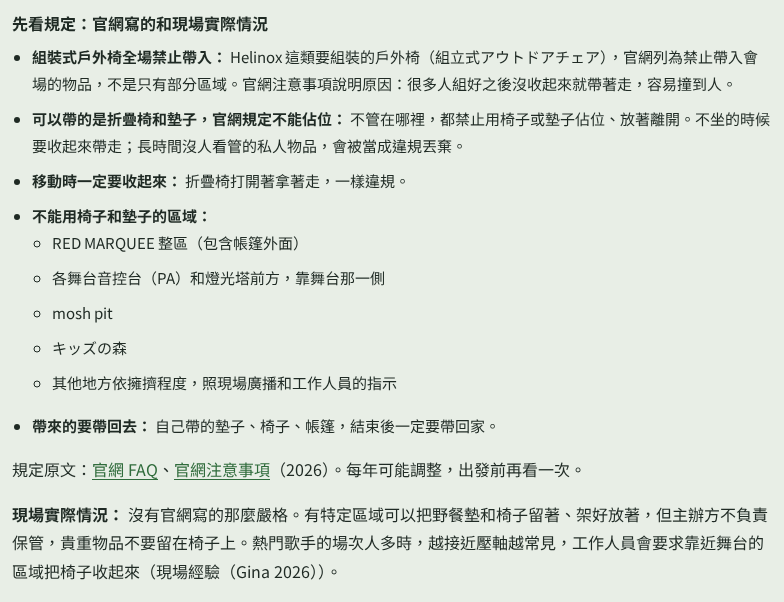
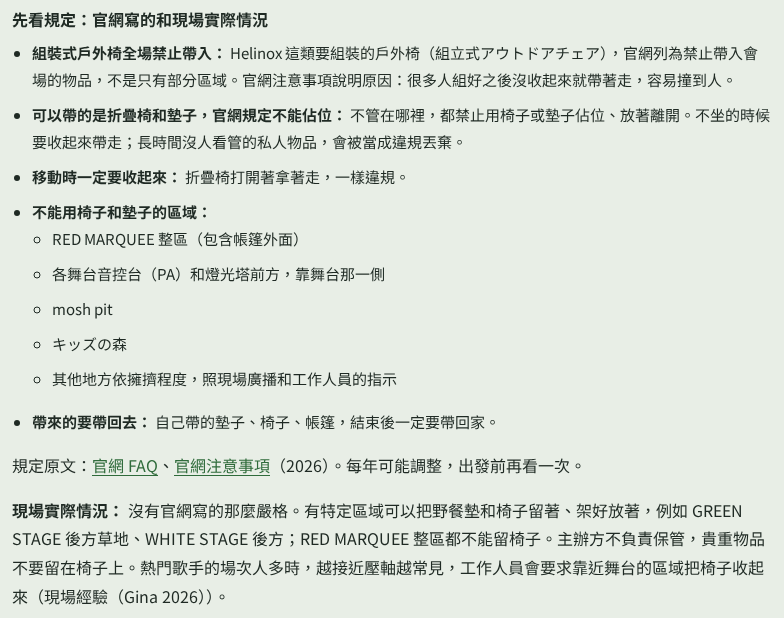
依 Gina 第二輪回覆更新第 2 批提案：熱水、寶特瓶、留椅區域、岩盤椅子

Changed region(s): [[0.0, 0.0, 0.9796, 0.9867]]

diff --git a/docs/frf-rewrite/beginner-faq-conflicts.md b/docs/frf-rewrite/beginner-faq-conflicts.md
@@ -6,6 +6,7 @@
 - 下面的「建議」是收尾時的改寫方向，用字以那時各篇的定稿為準。
 - 引用原文時，原文的破折號以「〔破折號〕」標示，提案文字本身不用破折號。
 - **2026-10-21 依 Gina 在 PR #21 的回覆更新：** 椅子佔位改成「官網規定＋實際情況」重新評估（第 1.3 節）；充電降為小差異（第 4.1 節）；電子錢包 Gina 確認場內不分海內外都能用，原本的衝突拿掉。Gina 的現場經驗註記為「現場經驗（Gina 2026）」。
+- **2026-10-21 第二輪回覆：** Gina 補充可以留椅子的區域（GREEN STAGE 後方草地、WHITE STAGE 後方；RED MARQUEE 整區不能留），#00「綠舞台後方可長時間佔位」改評為**地點大致一致**（第 1.3 節）。熱水、瓶罐（寶特瓶可以帶，玻璃瓶罐、鋁罐不能）#00 沒有提到，沒有衝突。
 
 ## 1. 椅子
 
@@ -32,9 +33,10 @@
 - **衝突點：**
   - 官網 2026 FAQ：可以帶的折疊椅、墊子，**任何地方都禁止佔位與放置**，移動時一定要收起來帶走；注意事項另寫長時間無人的私物視為違規丟棄。
   - 實際情況（現場經驗（Gina 2026））：有特定區域可以留野餐墊和椅子、可以架設，但不負責保管；熱門歌手的場次人多時（越接近壓軸越常見），會要求靠近舞台的區域收起椅子。椅子篇提案兩者都寫。
-  - 所以 #00「綠舞台後方可長時間佔位，去買飯或看其他場時椅子就放那」跟實際情況**部分一致**，但少了三件事：官網規定是禁止、主辦方不負責保管、熱門場次會要求收起來。「全場唯一」也還沒確認（可以留椅子的特定區域是哪裡，列在椅子篇要確認的事實第 2 點）。
+  - 可以留椅子的區域（現場經驗（Gina 2026））：例如 GREEN STAGE 後方草地、WHITE STAGE 後方；RED MARQUEE 整區都不能留。
+  - 所以 #00「綠舞台後方可長時間佔位，去買飯或看其他場時椅子就放那」的**地點大致一致**，但「全場唯一」不對，WHITE STAGE 後方也可以；另外少了三件事：官網規定是禁止、主辦方不負責保管、熱門場次會要求收起來。
   - 禁用區：官網是 RED MARQUEE 整區（含帳篷外）、各舞台音控台與燈光塔前方、mosh pit、キッズの森，其他地方依擁擠狀況聽廣播與工作人員指示。#00 寫「紅舞台、白舞台前方人潮擁擠時」，RED MARQUEE 其實是整區不分人多人少都不能用，白舞台也不是整個前方，而是音控台與燈光塔前方。
-- **建議：** 整題照椅子篇提案的常見問題第 2、3 題改寫，先寫官網規定，再寫實際情況，題目可以改成「Q：椅子可以放著佔位嗎？哪裡不能用？」。
+- **建議：** 整題照椅子篇提案的常見問題第 2、3 題改寫，先寫官網規定，再寫實際情況，綠舞台後方保留，拿掉「全場唯一」、補上 WHITE STAGE 後方，題目可以改成「Q：椅子可以放著佔位嗎？哪裡不能用？」。
 
 ## 2. 雨衣與雨傘
 
@@ -92,7 +94,7 @@
 | --- | --- | --- | --- | --- |
 | 1 | 椅子一定要帶嗎？ | 「強烈建議」「死守 1.5kg」，沒提規定 | 椅子篇提案 | festival-chair 2.7、常見問題第 4 題 |
 | 2 | Helinox 可以帶嗎？ | 「不建議」「場內」，官網是全場禁止帶入 | 官網 2026 FAQ | festival-chair 2.2、常見問題第 1 題 |
-| 3 | 椅子在哪裡可以展開？ | 綠舞台後方可佔位：官網禁止，實際有特定區域可留，部分一致，但少了不負責保管、熱門場次要收起；禁用區不對 | 官網 2026 FAQ、注意事項、現場經驗（Gina 2026） | festival-chair 2.2、常見問題第 2、3 題 |
+| 3 | 椅子在哪裡可以展開？ | 綠舞台後方可佔位：官網禁止，實際上 GREEN STAGE 後方草地、WHITE STAGE 後方可留，地點大致一致，但「全場唯一」不對，少了不負責保管、熱門場次要收起；禁用區不對 | 官網 2026 FAQ、注意事項、現場經驗（Gina 2026） | festival-chair 2.2、常見問題第 2、3 題 |
 | 4 | 雨衣還是雨傘？ | 傘是禁止不是慣例；推上下分離，新手篇推斗篷 | 官網 2026 FAQ、裝備入門篇 | gear-beginner 2.2、常見問題第 1、2 題 |
 | 5 | 睡袋一定要買嗎？ | 夜間溫度跨篇不一致；這批三篇沒有寫睡袋 | 迪卡儂全套篇、氣候防禦篇 | 無（收尾對齊） |
 | 6 | 手機充電怎麼辦？ | 小差異：要付費一致，2026 年是行動電源租借、要註冊會員；航空規定跟手機充電篇不同 | 現場經驗（Gina 2026） | daypack-packing 2.7、常見問題第 2 題 |
